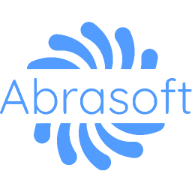
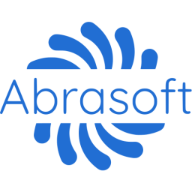
added services section

Changed region(s): [[0.125, 0.0938, 0.8438, 0.375], [0.1562, 0.625, 0.875, 0.9062], [0.0, 0.4062, 1.0, 0.5938]]

diff --git a/app/(info-pages)/components/ServicesSection/index.tsx b/app/(info-pages)/components/ServicesSection/index.tsx
@@ -1,0 +1,97 @@
+"use client";
+import React, { useState } from "react";
+import { Button, Container } from "react-bootstrap";
+import styles from "./ServicesSection.module.scss";
+import Image from "next/image";
+
+const sampleServices: ServiceItem[] = [
+  {
+    title: "App Development",
+    imgSrc: "/images/app-development.jpg",
+    p: "Whether it's your personalized accounting software, HR system, or a versatile POS, we specialize in crafting tailored application tools that meet your unique requirements.",
+    features: [
+      "Deployment to Apple Store or Play Store",
+      "Built using Flutter",
+      "Ongoing App Maintenance",
+    ],
+  },
+  {
+    title: "Web Development",
+    imgSrc: "/images/responsive-web-design.webp",
+    p: "From sleek corporate websites to dynamic e-commerce platforms, we excel in creating customized web solutions that resonate with your brand and engage your audience.",
+    features: [
+      "Responsive and User-Centric Designs",
+      "E-commerce Integration",
+      "SEO-Optimized Development",
+    ],
+  },
+  {
+    title: "Game Development",
+    imgSrc: "/images/game-development.jpg",
+    p: "Embark on a gaming adventure with our expertise in developing captivating and immersive games. From concept to execution, we bring your gaming ideas to life.",
+    features: [
+      "Interactive and Engaging Gameplay",
+      "Cross-Platform Compatibility",
+      "Game Updates and Enhancements",
+    ],
+  },
+];
+
+interface ServiceItem {
+  title: string;
+  imgSrc: string;
+  p: string;
+  features: string[];
+}
+
+const ServicesSection = () => {
+  const [activeServiceItem, setActiveServiceItem] = useState<ServiceItem>(
+    sampleServices[0],
+  );
+
+  return (
+    <section className={styles.section}>
+      <Container className={styles.container}>
+        <h4>Services</h4>
+        <h2>What we can do for you</h2>
+        <div className={styles.controls}>
+          {sampleServices.map((item, key) => (
+            <Button
+              key={`service-btn ${key}`}
+              onClick={() => setActiveServiceItem(item)}
+              variant={
+                activeServiceItem.title == item.title
+                  ? "primary"
+                  : "transparent"
+              }
+            >
+              {item.title}
+            </Button>
+          ))}
+        </div>
+        <div className={styles.details}>
+          <div className={styles.imgContainer}>
+            <Image
+              src={activeServiceItem.imgSrc}
+              alt="Abrasoft Logo"
+              height={250}
+              width={500}
+              className="d-inline-block align-text-top"
+            />
+          </div>
+          <div>
+            <h4>{activeServiceItem.title}</h4>
+            <p>{activeServiceItem.p}</p>
+            <ul>
+              {activeServiceItem.features.map((feature, key) => (
+                <li key={`feature ${key}`}>{feature}</li>
+              ))}
+            </ul>
+          </div>
+        </div>
+      </Container>
+    </section>
+  );
+};
+
+export default ServicesSection;

diff --git a/app/(info-pages)/components/ServicesSection/ServicesSection.module.scss b/app/(info-pages)/components/ServicesSection/ServicesSection.module.scss
@@ -1,0 +1,68 @@
+.section {
+  background: var(--light);
+  color: var(--secondary);
+}
+
+.container {
+  padding-top: 40px;
+  padding-bottom: 40px;
+  background-color: var(--light);
+
+  > h4,
+  > h2 {
+    text-align: center;
+  }
+}
+
+.controls {
+  display: grid;
+  grid-template-rows: min-content min-content min-content;
+  gap: 8px;
+  background-color: var(--primary-bg-subtle);
+  margin-bottom: 16px;
+
+  > button {
+    text-wrap: nowrap;
+  }
+
+  @media screen and (width >= 768px) {
+    grid-template-columns: min-content min-content min-content;
+    grid-template-rows: min-content;
+    padding: 8px;
+    place-content: center;
+    width: min-content;
+    margin-right: auto;
+    margin-left: auto;
+  }
+}
+
+.details {
+  display: flex;
+  flex-direction: column;
+  align-items: center;
+  gap: 16px;
+
+  @media screen and (width >= 968px) {
+    display: grid;
+    grid-template-columns: 50% 50%;
+    justify-content: center;
+  }
+}
+
+.imgContainer {
+  display: grid;
+  place-content: center;
+
+  > img {
+    width: auto;
+    height: 250px;
+    margin-bottom: 8px;
+    margin-right: auto;
+    margin-left: auto;
+    max-width: 100%;
+
+    @media screen and (width >= 968px) {
+      margin-bottom: 0;
+    }
+  }
+}

diff --git a/app/(info-pages)/page.tsx b/app/(info-pages)/page.tsx
@@ -1,22 +1,13 @@
 import React from "react";
-import { Button, Container } from "react-bootstrap";
-import styles from "./Page.module.scss";
+import HeroSection from "./components/HeroSection";
+import ServicesSection from "./components/ServicesSection";
 
 const Page = () => {
   return (
-    <section className={styles.hero}>
-      <Container className={styles.container}>
-        <h1>Turning Ideas into Reality</h1>
-        <p>
-          Discover tailored software solutions for every industry. Elevate your
-          business with high-value technology and innovation.
-        </p>
-        <div>
-          <Button variant="primary">Get in Touch</Button>
-          <Button variant="secondary">Learn More</Button>
-        </div>
-      </Container>
-    </section>
+    <>
+      <HeroSection />
+      <ServicesSection />
+    </>
   );
 };
 

diff --git a/css/globals.scss b/css/globals.scss
@@ -1,7 +1,8 @@
 @import url("~bootstrap/dist/css/bootstrap.min.css");
 
 :root {
-  --primary: #529cff;
+  --primary: #216ed3;
+  --primary-hover: #43b4ff;
   --secondary: #0b2b57;
   --secondary-hover: #153768;
   --light-hover: #ededed;
@@ -68,6 +69,23 @@ body {
 .btn {
   border: 0;
   border-radius: 0;
+  padding: 8px 16px;
+}
+
+.btn-primary {
+  background-color: var(--primary);
+  color: var(--light);
+
+  &:hover,
+  &:active,
+  &:focus,
+  &:focus-visible {
+    background-color: var(--primary-hover) !important;
+  }
+
+  &:active {
+    background-color: var(--primary) !important;
+  }
 }
 
 .btn-secondary {
@@ -76,7 +94,6 @@ body {
 
   &:hover,
   &:active,
-  &:not(.btn-check) + .btn:active,
   &:focus,
   &:focus-visible {
     background-color: var(--secondary-hover) !important;

diff --git a/app/(info-pages)/components/HeroSection/index.tsx b/app/(info-pages)/components/HeroSection/index.tsx
@@ -1,0 +1,25 @@
+import React from "react";
+import { Button, Container } from "react-bootstrap";
+import styles from "./HeroSection.module.scss";
+
+const HeroSection = () => {
+  return (
+    <section className={styles.hero}>
+      <Container className={styles.container}>
+        <h1>
+          Turning Ideas into <span>Reality</span>
+        </h1>
+        <p>
+          Discover tailored software solutions for every industry. Elevate your
+          business with high-value technology and innovation.
+        </p>
+        <div>
+          <Button variant="primary">Get in Touch</Button>
+          <Button variant="secondary">Learn More</Button>
+        </div>
+      </Container>
+    </section>
+  );
+};
+
+export default HeroSection;

diff --git a/app/(info-pages)/components/HeroSection/HeroSection.module.scss b/app/(info-pages)/components/HeroSection/HeroSection.module.scss
@@ -4,10 +4,14 @@
   margin-left: auto;
   margin-right: auto;
 
+  h1 span {
+    color: var(--primary-hover);
+  }
+
   @media screen and (width >= 768px) {
     h1,
     p {
-      width: 50%;
+      width: 60%;
     }
   }
 }
